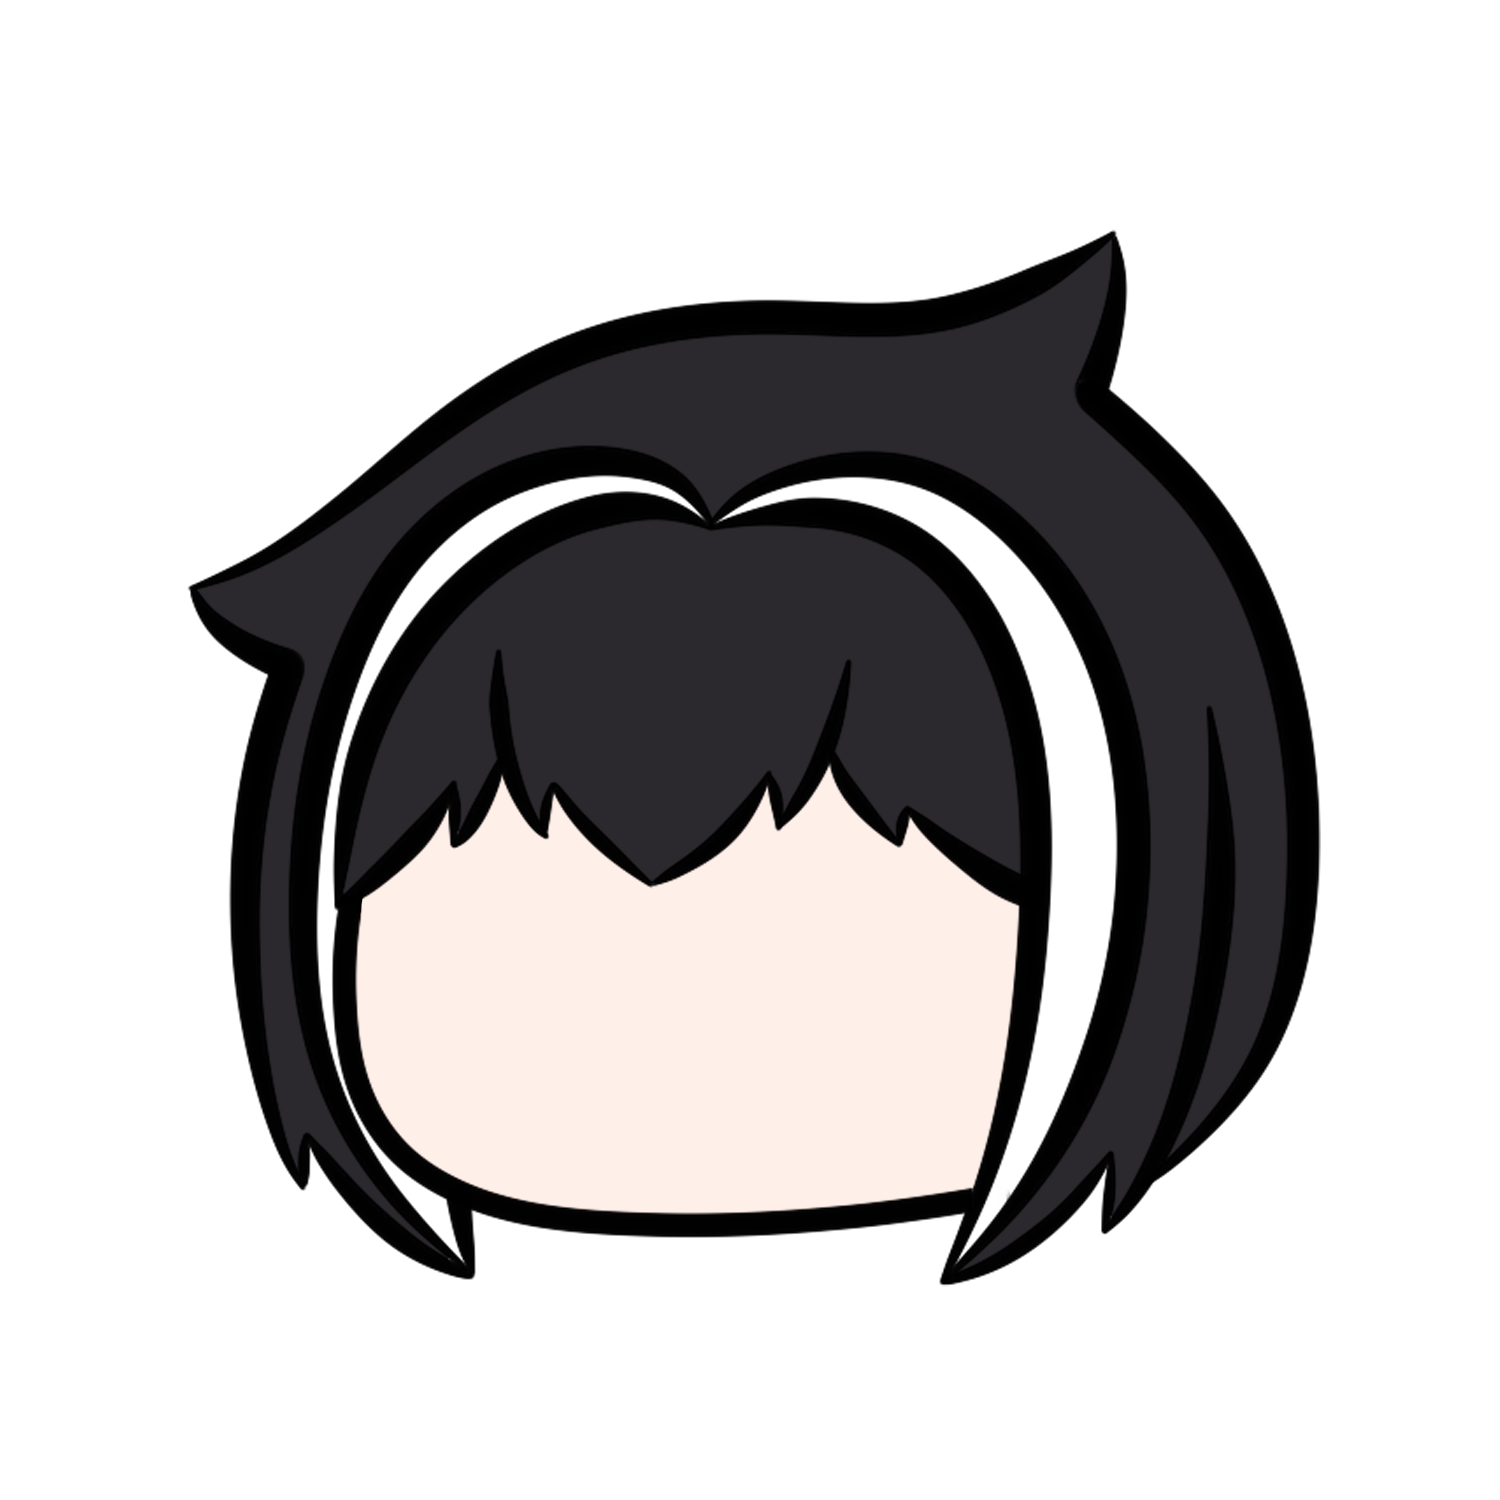
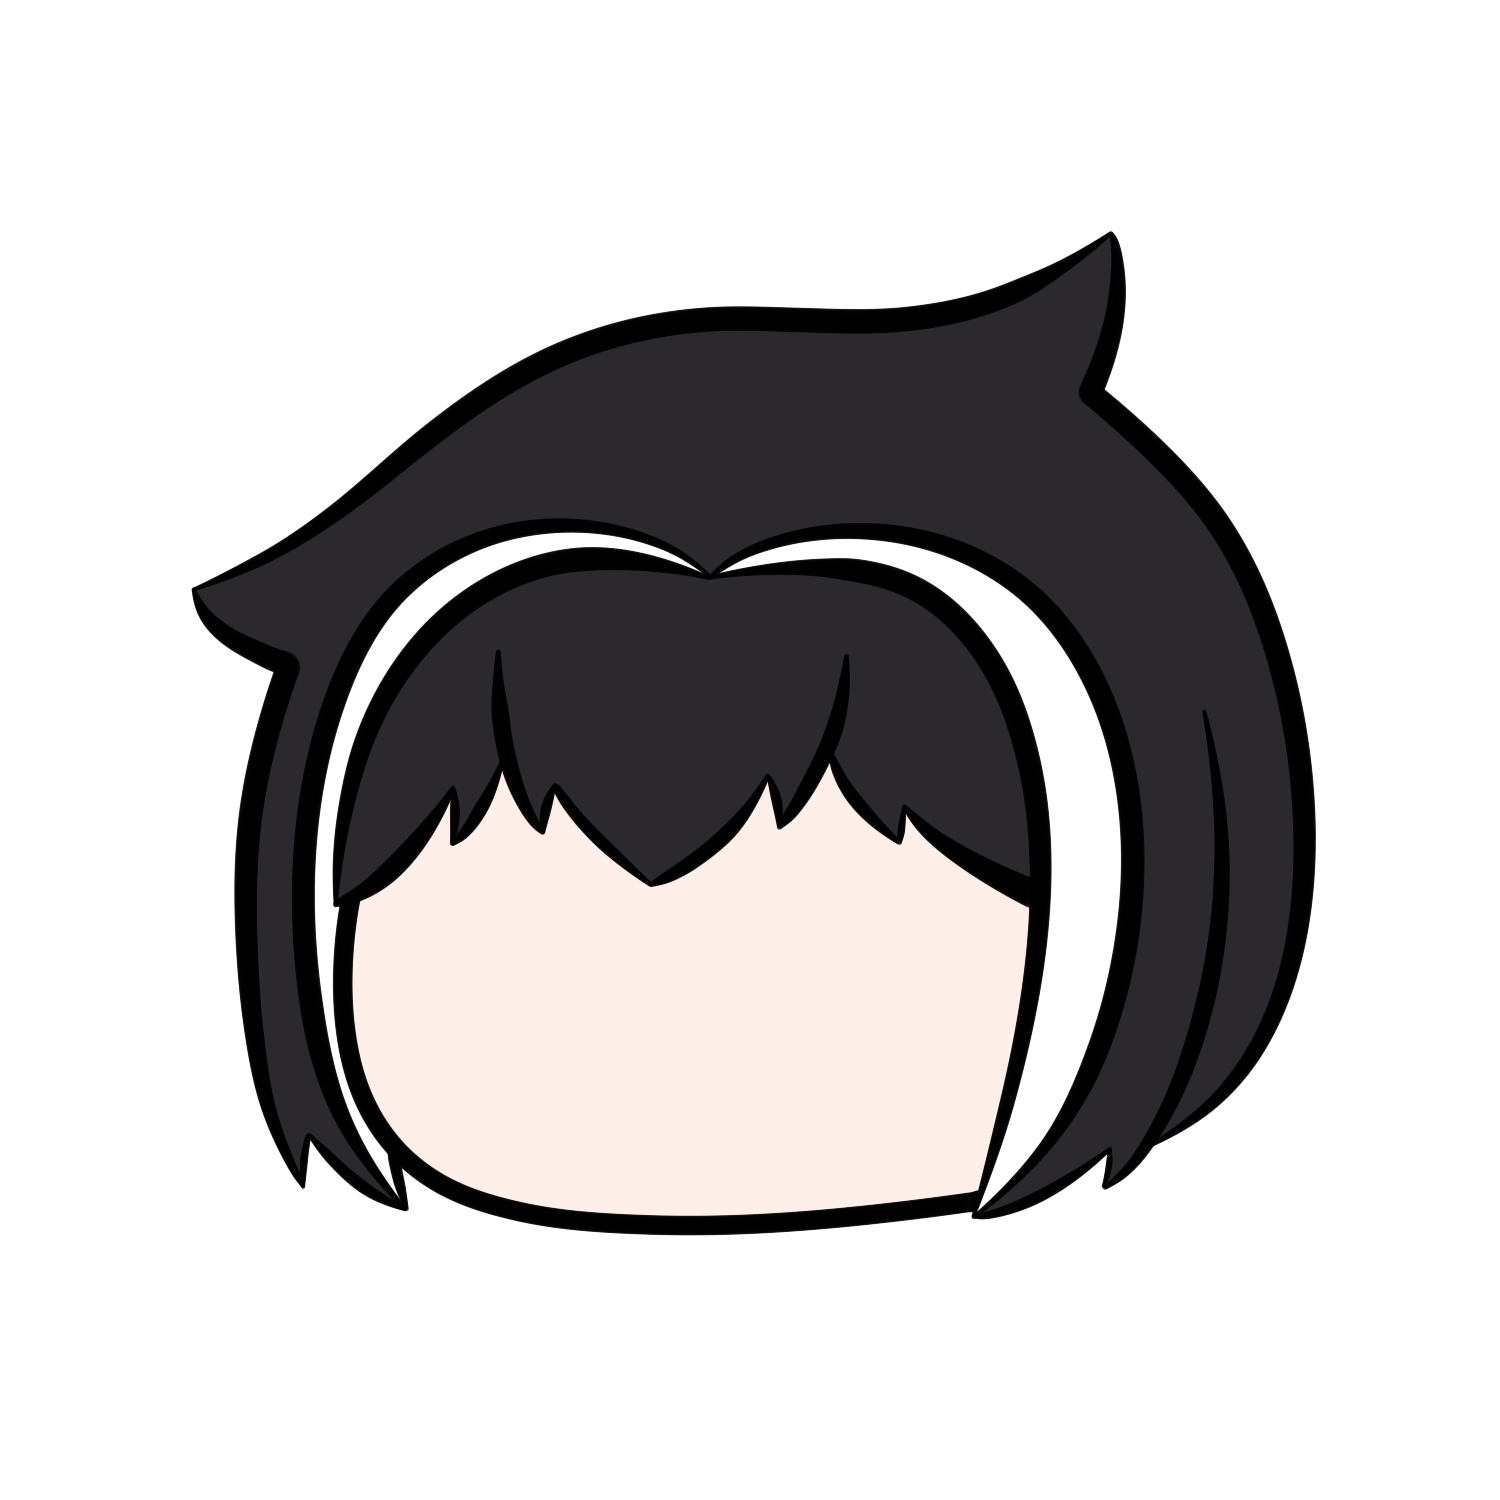
알키 머리 이미지 수정

diff --git a/game_class/class_alki.py b/game_class/class_alki.py
@@ -27,7 +27,7 @@ class Alki:
     def draw(self):
         global ex, ey, eye_pos_x, eye_pos_y, dot_pos_x, dot_pos_y, brow_pos_x, brow_pos_y
 
-        Alki.body.rotate_draw(0, self.x + ex, self.y - 700 + ey, WIDTH / 2, WIDTH / 2)  # 사이즈는 화면 가로 길이를 기준으로 정함
+        Alki.body.rotate_draw(0, self.x + ex, self.y - 700 + ey, self.size, self.size)  # 사이즈는 화면 가로 길이를 기준으로 정함
 
         match self.state:
             case 'middle':
@@ -51,13 +51,15 @@ class Alki:
     def update(self):
         global ex, ey, eye_pos_x, eye_pos_y, dot_pos_x, dot_pos_y, brow_pos_x, brow_pos_y
 
-        if self.m.x <= self.x - 700:
-            self.state = 'left'
-        elif self.m.x >= self.x + 700:
+        # 마우스 위치에 따라 바라보는 방향이 달라진다
+        if self.m.x >= self.x + 700:
             self.state = 'right'
+        elif self.m.x <= self.x - 700:
+            self.state = 'left'
         else:
             self.state = 'middle'
 
+        # 화면 효과
         ex = self.e.ex
         ey = self.e.ey
 
@@ -73,6 +75,7 @@ class Alki:
         else:
             brow_pos_y = 0
 
+        # 알키의 모든 부분은 하나의 좌표로 통일된다
         self.eye_x, self.eye_y = self.x, self.y  # 눈, 눈동자, 눈썹 위치
         self.dot_x, self.dot_y = self.x, self.y
         self.brow_x, self.brow_y = self.x, self.y
